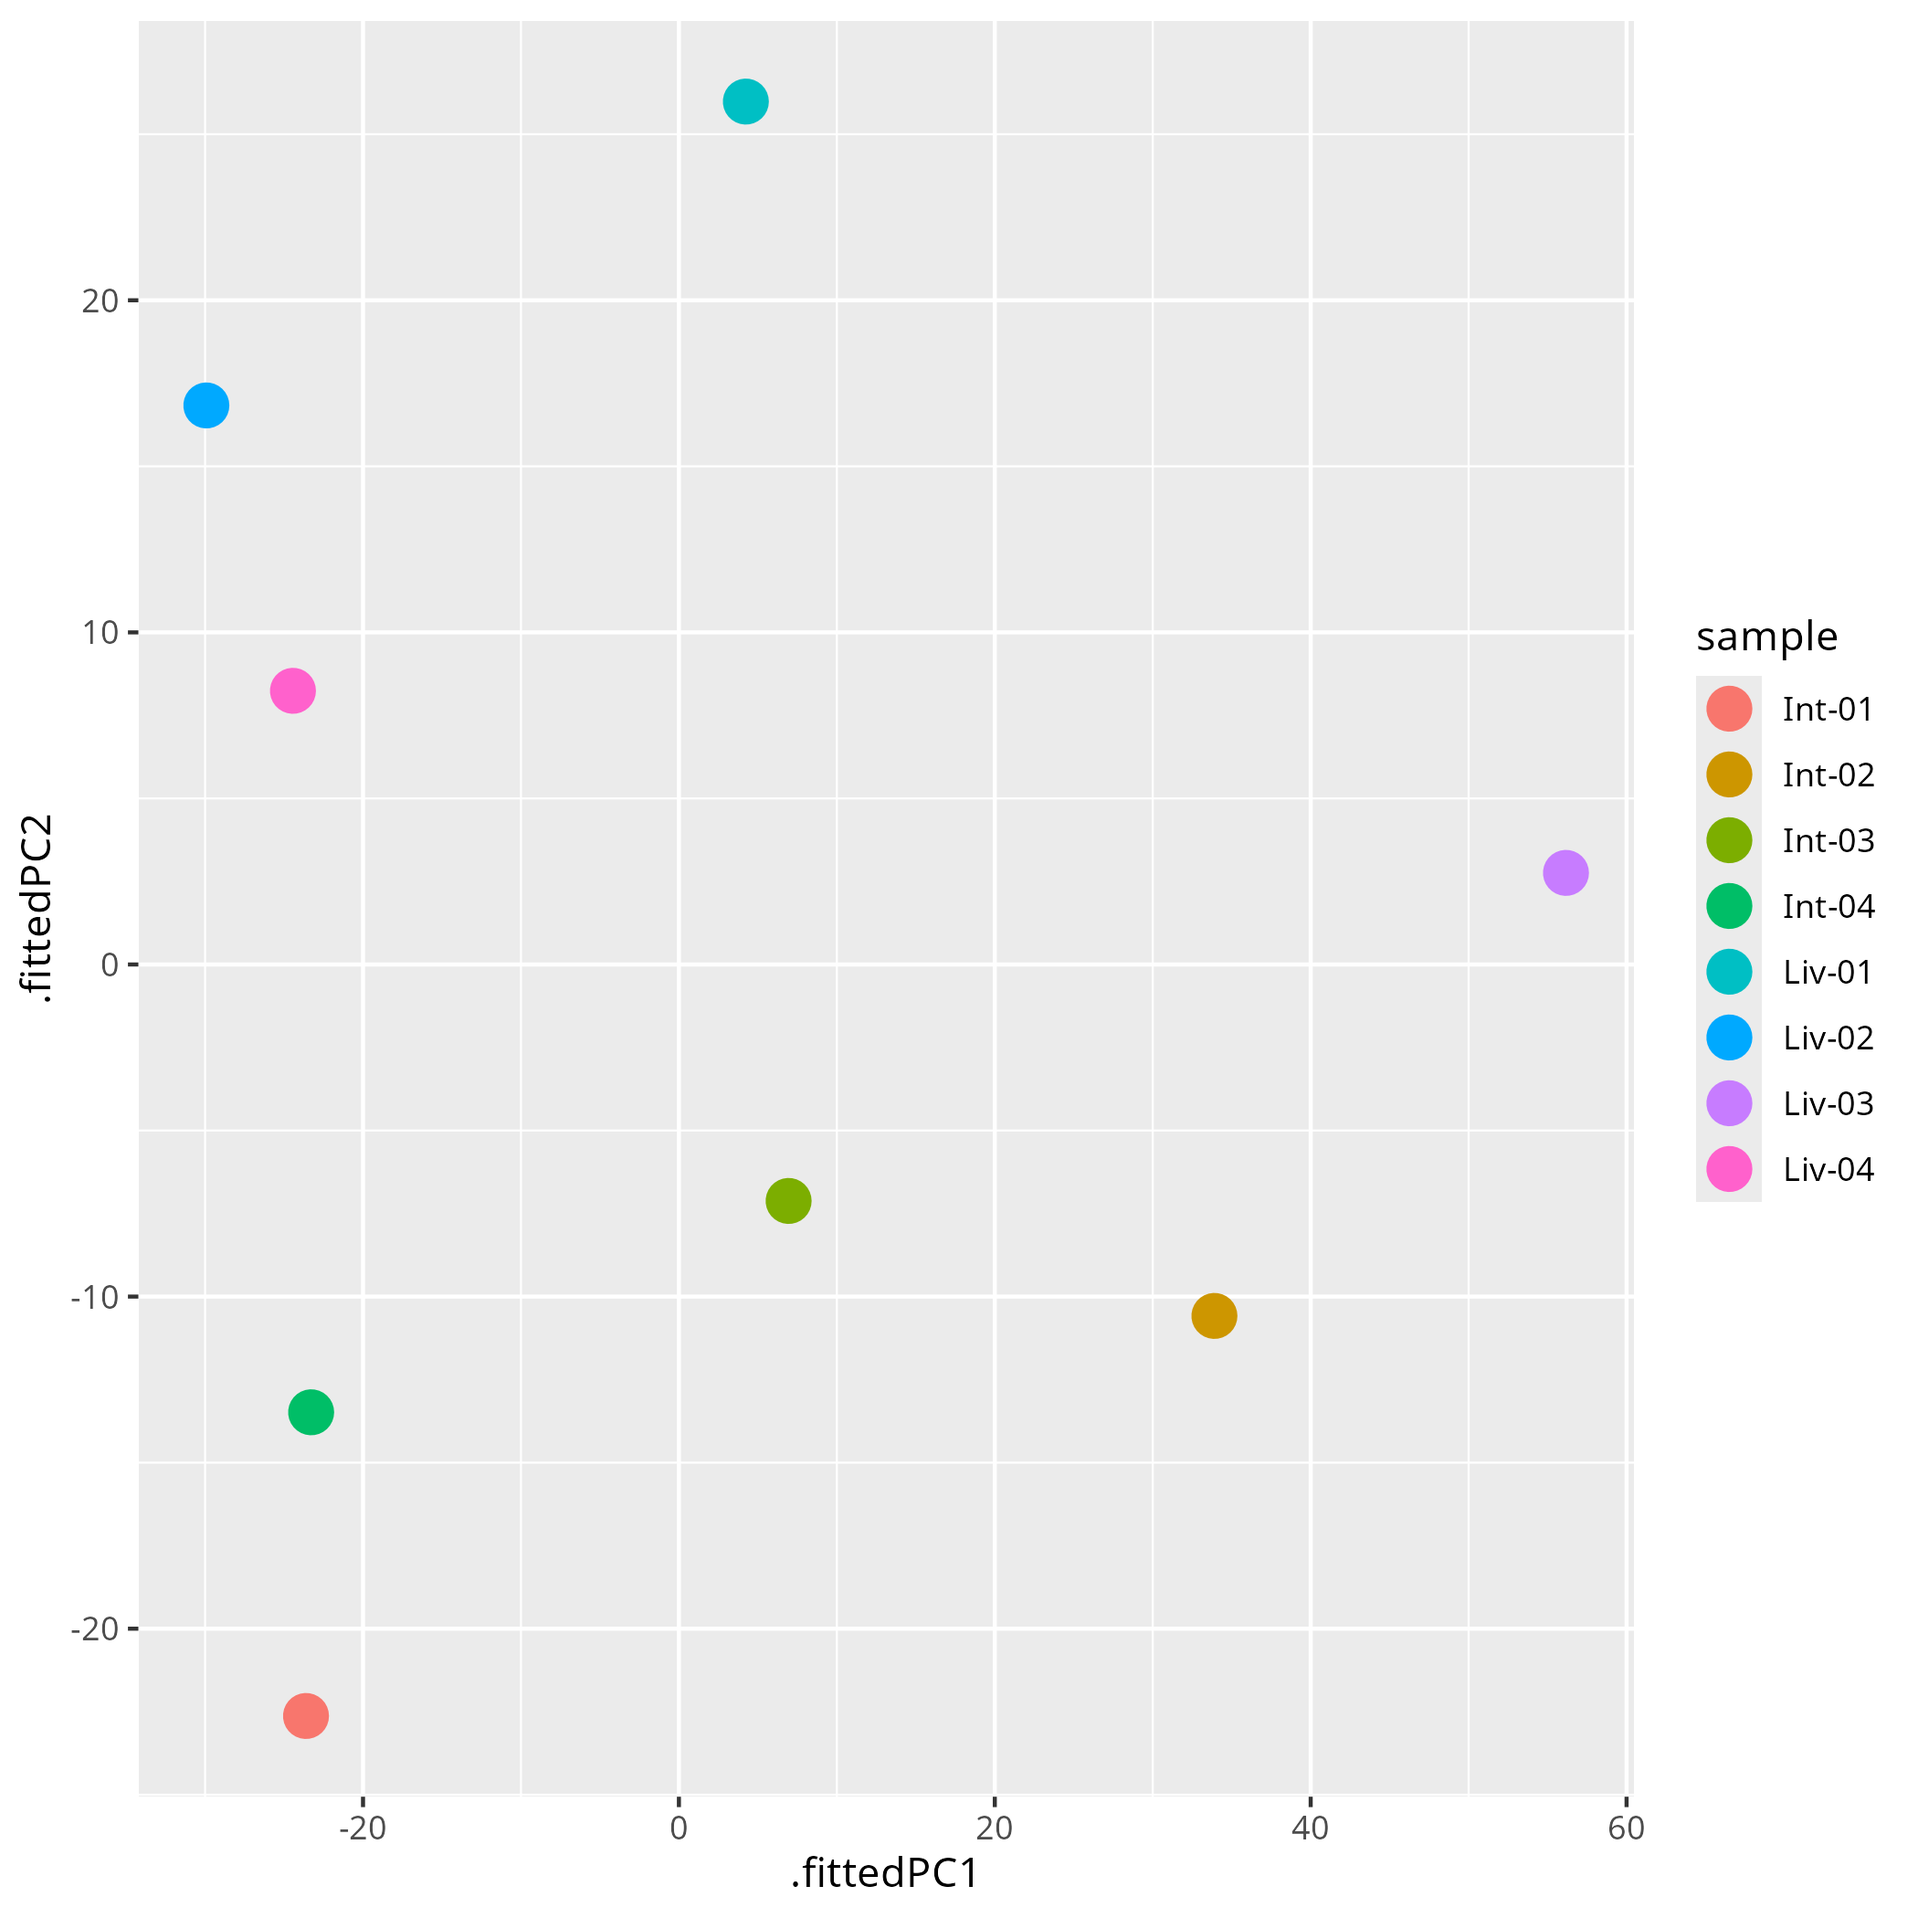
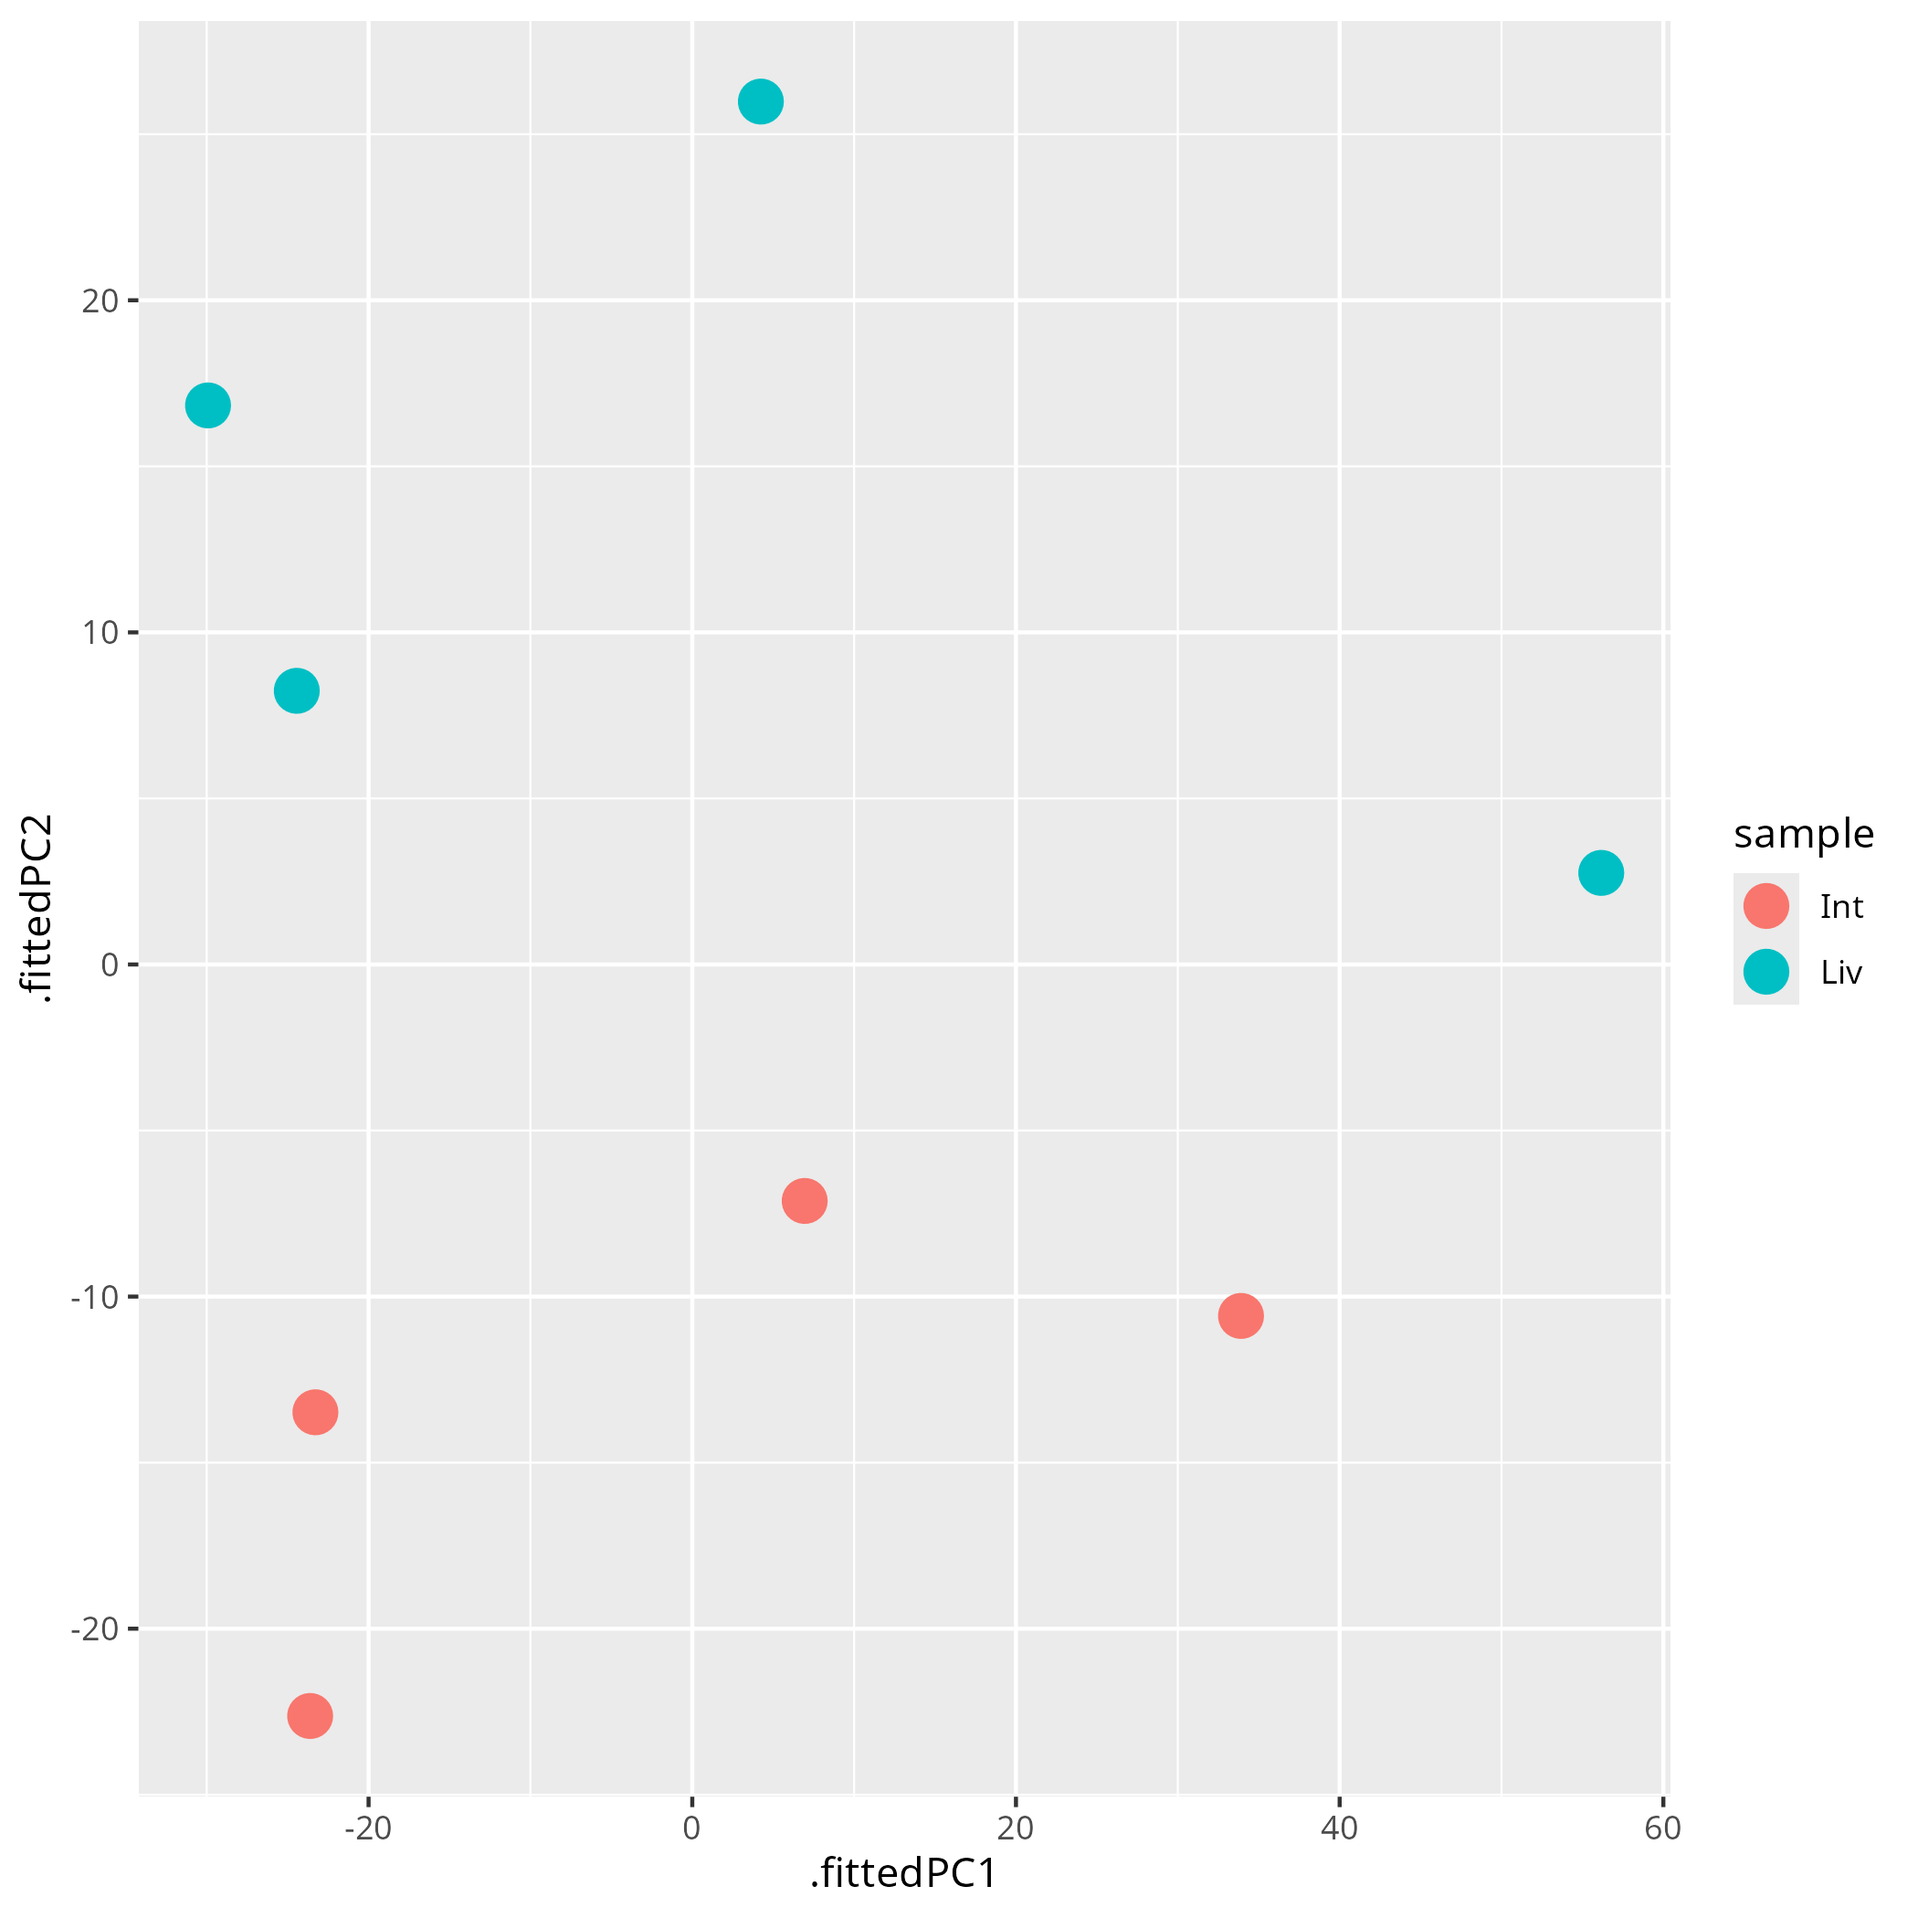
wrote readme, edited plots, and started captions

diff --git a/README.md b/README.md
@@ -1,56 +1,15 @@
 # Sm_Mira_IvT
+ For this project, our goal is to determine if miracidia from the liver and the intestines are transcriptomically different. If they are, we also want to identify any differentially expressed genes.
 
-This is the parent repository for the final project for the fall 2024 semester of BIOL343. To embark on this project, fork the repository and edit it as you please. Grading specifications are described below.
+## Reduced Data vs Whole Data
+ Since the data was very large, I did not have enough time to run it on the whole dataset. The reduced dataset has 10% of the data for each file. Anything with "_reduced" uses the reduced data.
 
-## Tasks
+## Ways to Run the Analysis
+ There are two ways of running this analysis: in a jupyter notebook or through snakemake.
 
-You have been provided with 16 FASTQs filles in `/data/classes/2024/fall/biol343/course_files/20240923_LH00283_0144_B22NMVKLT3`. These reads originated from 8 different samples: 4 samples of miracidia that were hatched from eggs derived from the liver and 4 samples of miracidia that were hatched from eggs derived from the intestine. The goal of this experiment is to analyze whether miracidia from the intestine are transcriptomically different from those from the liver and, if so, identify differentially expressed genes. To answer the first question, you will perform a PCA of the normalized counts and analyze the sample clusters. To answer the second question, you will use DESeq2 to identify and plot DEGs.
+### To Run Notebook:
+ First create an environment with the env.yaml file. You will also need to run the line "BiocManager::install("GenomeInfoDbData", lib="/data/users/YOUR_USERNAME/.conda/envs/CONDA_ENVIRONMENT/lib/R/library/")" for the Rscript to work, changing the parts in all caps. Then run each part of the notebook.
 
->[!TIP]
-> You may want to read [Winners vs. losers: Schistosoma mansoni intestinal and liver eggs exhibit striking differences in gene expression and immunogenicity](https://journals.plos.org/plospathogens/article?id=10.1371/journal.ppat.1012268) before you get started. Our project is a follow up to that study.
-
-All relevent metadata and QC data associated with the RNA extraction and library generation is provided in the `qc/` folder. You should review this information prior to starting the analysis, because it should inform your decision making on read trimming. Notably, the library was generated with the NEBNext Ultra II Directional mRNA kit, sequenced on a full 10B lane of a NovaSeq X with a 2x150bp format.
-
-## Grade specifications
-
-### C
-
-To receive a C in this class, the following are required:
-
-1. The full analysis in an IPython notebook that allows reproduction of the entire analysis. At least two plots (PCA of samples and volcano plot of DEGs) should be included. The analysis should include QC evaluation of:
-      1. RNA extraction and library prep,
-      2. reads before and after trimming,
-      3. alignment,
-      4. counting,
-      5. PCA clustering,and
-      6. differential expression.  
-  > [!TIP]  
-  > This means that you should include Markdown explaining and evaluating logs and QC metrics, as well as your thought process behind each command and argument.
-2. An `environment.yaml` file that includes the specifications for generating a conda environment to use as the kernel for the IPython notebook.  
-3. A single MultiQC report that includes QC from each command in the notebook.  
-4. All of the associated data. Some of it may be too large to put on GitHub, but the count matrices should be included at the very least.  
-
-  > [!IMPORTANT]  
-  >The notebook should be organized, written, and formatted in a professional manner, as if you were going to provide it to a client. A rubric will be provided soon.
-
-### B
-
-To receive a B in this class, you are required to do everything required for a C, as well as the following:
-
-1. Use git to version control the entire analysis. Commit messages should be ***informative***, and there should be at least one commit per remaining week of the semester, which means >4 commits.  
-
-### A
-
-To receive an A in this class, you are required to do everything required for a B and C, as well as the following:
-
-1. A snakefile that allows complete reproduction of the analysis. This should be in the `pipeline/` directory.  
-2. At least one YAML specifying conda environments to use with the `--use-conda` argument.  
-
-## Other details
-
-- Since the FASTQs are provided, you don't need an SRARunTable or to fetch any FASTQs.  
-- The reads are paired-end, so your code from the previous homework/notebooks will need to be updated accordingly.
-
-## Forking this repository
-
-A fork is a repo that originates from someone else's repo but is now owned by you. It is different from a branch, which is owned by the repo owner. Forking this repository will allow you add this analyis to your personal portfolio of bioinfomatics analyses. To fork a repo, navigate to the repo on GitHub.com and click the Fork button on the top-right.
+### To Run Snakemake:
+ First download snakemake. Then cd into pipeline or pipeline_reduced, depending on which you want to run. Finally, run snakemake with the --use-conda argument.
+ 

diff --git a/notebook_reduced/plots_reduced/plot_evaluations.md b/notebook_reduced/plots_reduced/plot_evaluations.md
@@ -1,0 +1,15 @@
+![hisat distribution plot before normalization](hisat_dist_plot_before_diffexp.png "This is a distribution plot of our smaples from the hisat alignment before noramlization. There are not any clearly visable patterns.")
+
+![hisat pca plot before normalization](hisat_pca_plot_before_deseq2.png "This is a pca plot of our smaples from the hisat alignment before normalization. There is clear separation between the smaples from the liver and intestines. This leads me to believe that there is a signifficant different between miracidia from the liver and intestines.")
+
+![hisat pca plot after normalization](hisat_pca_plot_after_deseq2.png "Add caption here.")
+
+![hisat volcano plot after normalization](hisat_volcano_plot.png "Add caption here.")
+
+![star distribution plot before normalization](star_dist_plot_before_diffexp.png "Add caption here.")
+
+![star pca plot before normalization](star_pca_plot_before_deseq2.png "Add caption here.")
+
+![star pca plot after normalization](star_pca_plot_after_deseq2.png "Add caption here.")
+
+![star volcano plot after normalization](star_volcano_plot.png "Add caption here.")
